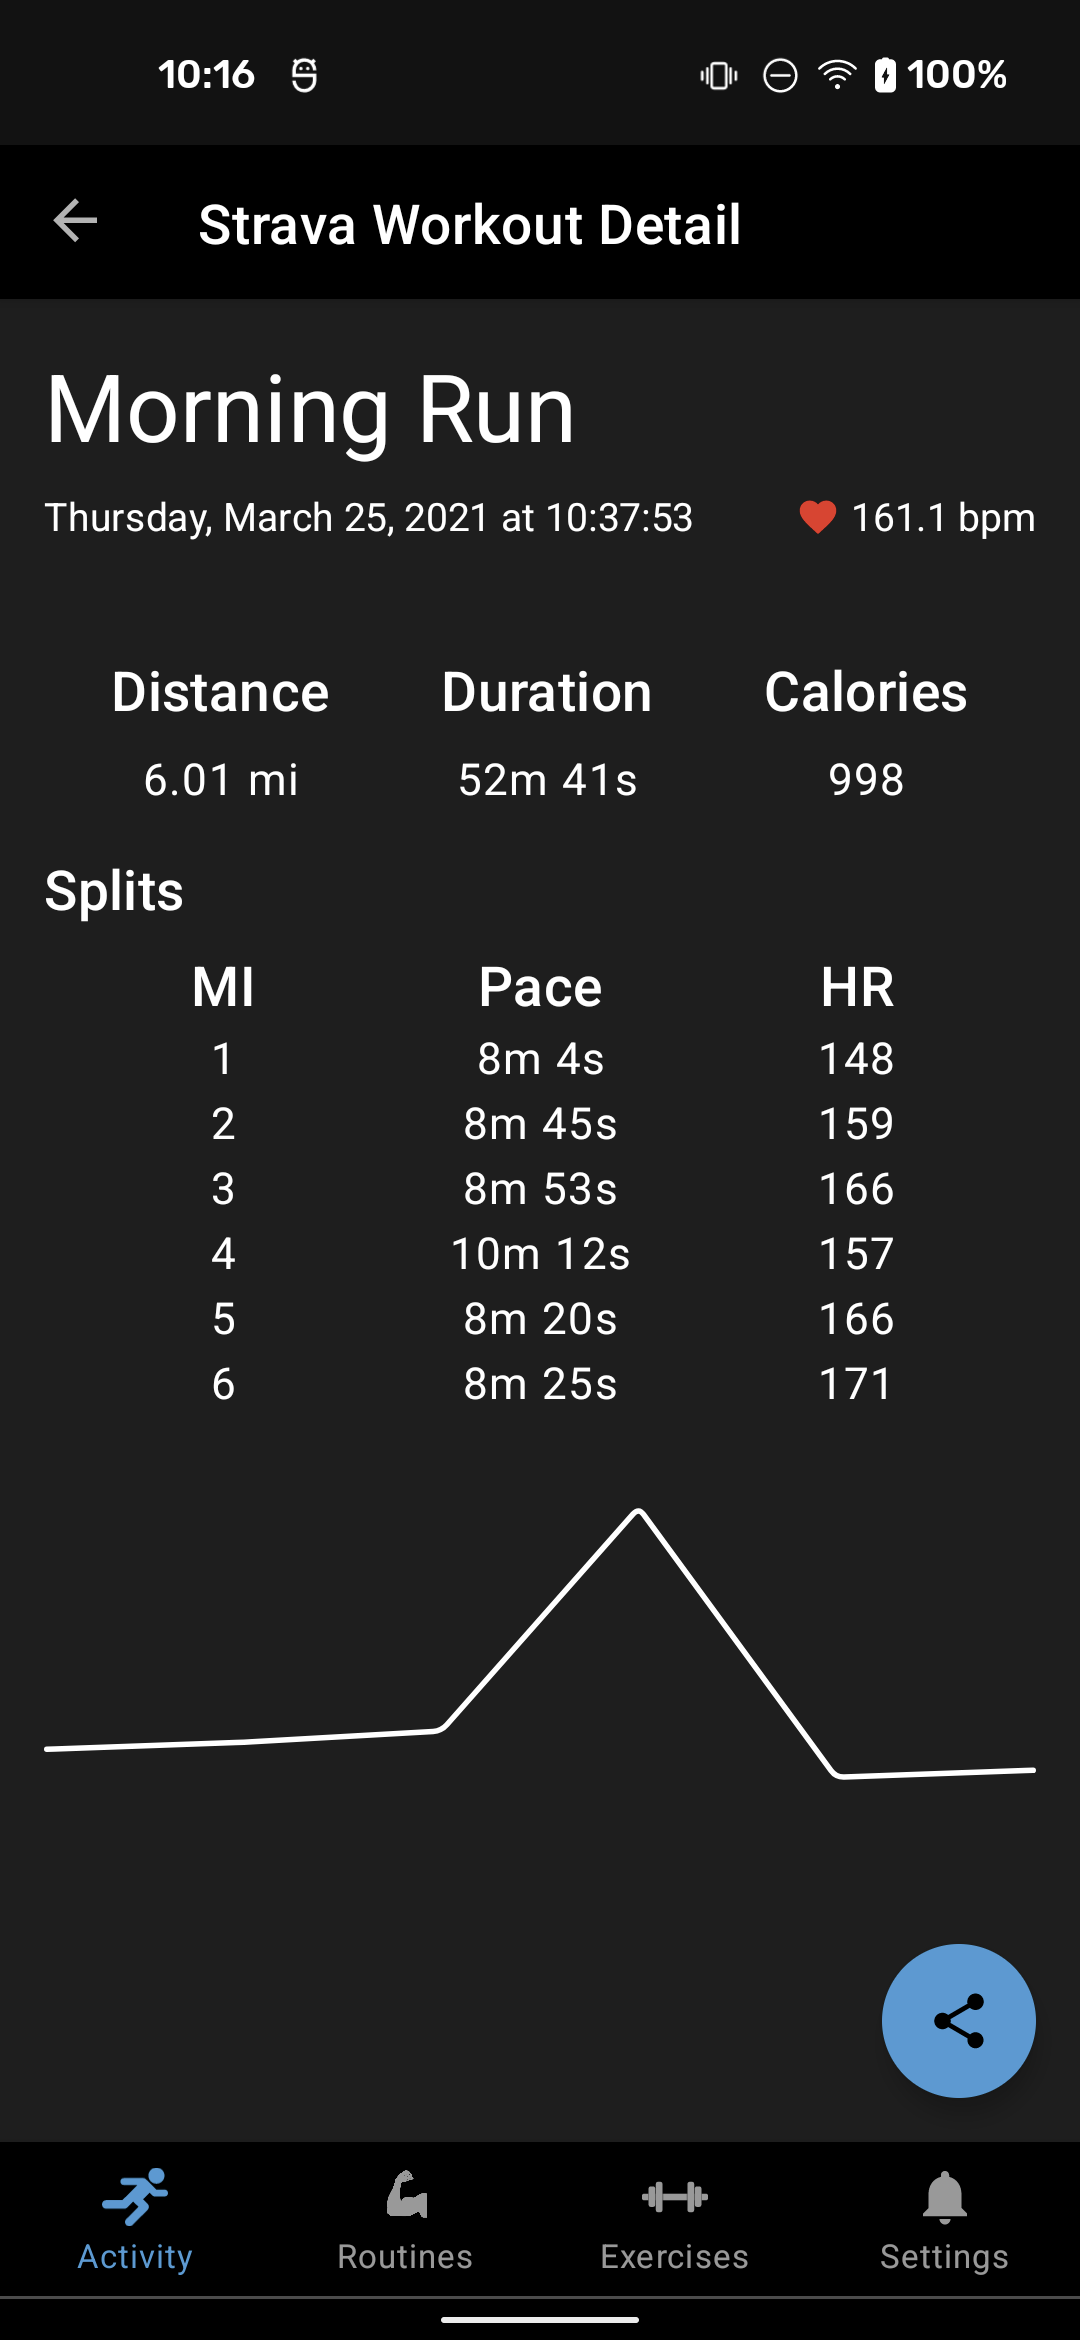
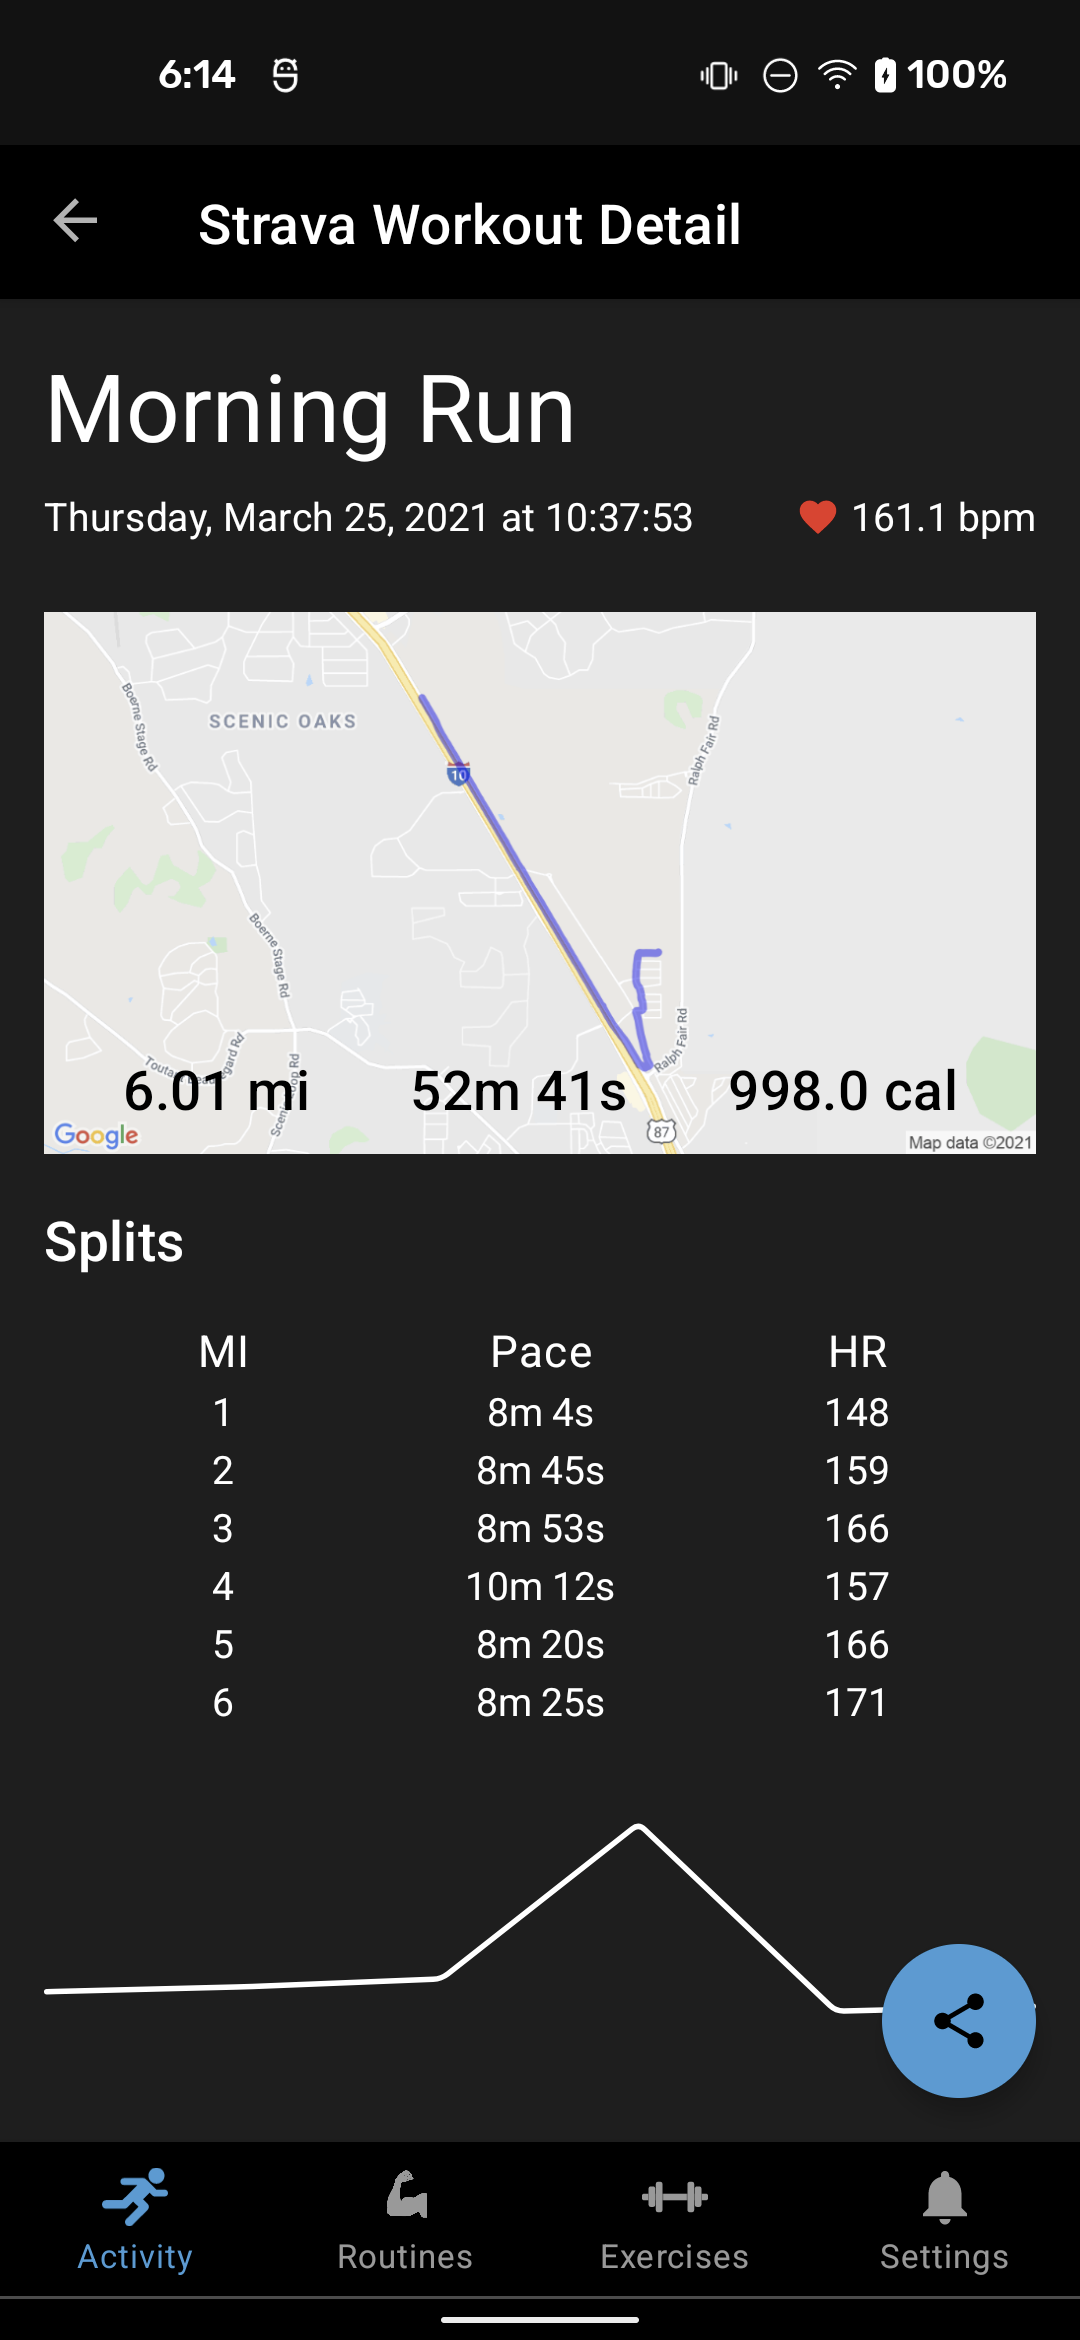
added mapview to strava detail

diff --git a/app/src/main/java/com/mcwilliams/theninjamethod/ui/activity/stravadetail/StravaWorkoutDetailFragment.kt b/app/src/main/java/com/mcwilliams/theninjamethod/ui/activity/stravadetail/StravaWorkoutDetailFragment.kt
@@ -5,7 +5,10 @@ import android.view.*
 import android.widget.ImageView
 import android.widget.LinearLayout
 import android.widget.ProgressBar
+import androidx.compose.foundation.background
 import androidx.compose.foundation.layout.*
+import androidx.compose.foundation.rememberScrollState
+import androidx.compose.foundation.verticalScroll
 import androidx.compose.material.*
 import androidx.compose.material.icons.Icons
 import androidx.compose.material.icons.filled.Share
@@ -14,6 +17,7 @@ import androidx.compose.runtime.livedata.observeAsState
 import androidx.compose.ui.Alignment
 import androidx.compose.ui.Modifier
 import androidx.compose.ui.graphics.Color
+import androidx.compose.ui.layout.ContentScale
 import androidx.compose.ui.platform.ComposeView
 import androidx.compose.ui.res.painterResource
 import androidx.compose.ui.unit.dp
@@ -26,9 +30,11 @@ import androidx.lifecycle.Observer
 import androidx.navigation.NavController
 import androidx.navigation.Navigation
 import androidx.navigation.fragment.findNavController
+import com.google.accompanist.coil.CoilImage
 import com.google.android.material.composethemeadapter.MdcTheme
 import com.google.android.material.textview.MaterialTextView
 import com.mcwilliams.data.workoutdb.SimpleWorkout
+import com.mcwilliams.theninjamethod.BuildConfig
 import com.mcwilliams.theninjamethod.R
 import com.mcwilliams.theninjamethod.strava.model.activitydetail.StravaActivityDetail
 import com.mcwilliams.theninjamethod.theme.TheNinjaMethodTheme
@@ -64,10 +70,10 @@ class StravaWorkoutDetailFragment : Fragment() {
             }
         }
     }
+}
 
-//    fun getMapUrl(polyline: String): String {
-//        return "https://maps.googleapis.com/maps/api/staticmap?size=700x350&scale=2&maptype=roadmap&path=enc:${polyline}&key=${BuildConfig.MAPS_API_KEY}"
-//    }
+fun getMapUrl(polyline: String): String {
+    return "https://maps.googleapis.com/maps/api/staticmap?size=700x350&scale=2&maptype=roadmap&path=enc:${polyline}&key=AIzaSyBWhwSFZ1aFOyxGN057wR_4wMA3QMyLT9I"
 }
 
 @Composable
@@ -89,13 +95,14 @@ fun StravaDetailContent(
             )
         }
     } else {
+        val scrollState = rememberScrollState()
         detailActivity?.let { stravaDetailActivity ->
             Box() {
                 Column(
                     Modifier
                         .fillMaxSize()
-                        .padding(horizontal = 16.dp)
-                        .padding(top = 16.dp)
+                        .padding(horizontal = 16.dp, vertical = 16.dp)
+                        .verticalScroll(scrollState)
                 ) {
                     Text(
                         text = stravaDetailActivity.name,
@@ -107,7 +114,7 @@ fun StravaDetailContent(
                         horizontalArrangement = Arrangement.SpaceBetween,
                         modifier = Modifier
                             .fillMaxWidth()
-                            .padding(bottom = 32.dp)
+                            .padding(bottom = 16.dp)
                     ) {
                         Text(
                             text = stravaDetailActivity.formattedDate,
@@ -122,7 +129,9 @@ fun StravaDetailContent(
                                     painter = painterResource(id = R.drawable.ic_heart_icon),
                                     contentDescription = "",
                                     tint = Color.Red,
-                                    modifier = Modifier.size(20.dp).padding(end = 4.dp)
+                                    modifier = Modifier
+                                        .size(20.dp)
+                                        .padding(end = 4.dp)
                                 )
                                 Text(
                                     text = "${stravaDetailActivity.average_heartrate} bpm",
@@ -133,23 +142,96 @@ fun StravaDetailContent(
                             }
                         }
                     }
+//
+//                    Row(
+//                        horizontalArrangement = Arrangement.SpaceEvenly,
+//                        modifier = Modifier
+//                            .fillMaxWidth()
+//                            .padding(bottom = 16.dp)
+//                    ) {
+//                        StackedRunDetail(label = "Distance", value = stravaDetailActivity.miles)
+//                        StackedRunDetail(label = "Duration", value = stravaDetailActivity.duration)
+//                        StackedRunDetail(
+//                            label = "Calories",
+//                            value = "${stravaDetailActivity.calories.toInt()}"
+//                        )
+//                    }
 
-                    Row(
-                        horizontalArrangement = Arrangement.SpaceEvenly,
-                        modifier = Modifier.fillMaxWidth()
+                    Box(
+                        modifier = Modifier
+                            .fillMaxWidth()
+                            .wrapContentHeight()
                     ) {
-                        StackedRunDetail(label = "Distance", value = stravaDetailActivity.miles)
-                        StackedRunDetail(label = "Duration", value = stravaDetailActivity.duration)
-                        StackedRunDetail(
-                            label = "Calories",
-                            value = "${stravaDetailActivity.calories.toInt()}"
-                        )
+                        stravaDetailActivity.map?.let {
+                            CoilImage(
+                                data = getMapUrl(it.polyline),
+                                contentDescription = "",
+                                contentScale = ContentScale.FillWidth,
+                                modifier = Modifier
+                                    .fillMaxWidth()
+                                    .height(200.dp),
+                                loading = {
+
+                                }
+                            )
+                        }
+
+                        Row(
+                            verticalAlignment = Alignment.Bottom,
+                            horizontalArrangement = Arrangement.SpaceEvenly,
+                            modifier = Modifier
+                                .fillMaxWidth()
+                                .height(200.dp)
+                                .padding(bottom = 4.dp)
+                        ) {
+                            Column(
+                                modifier = Modifier
+                                    .wrapContentSize()
+                                    .padding(horizontal = 8.dp),
+                                horizontalAlignment = Alignment.CenterHorizontally
+                            ) {
+                                Text(
+                                    text = "${stravaDetailActivity.miles}",
+                                    style = MaterialTheme.typography.h6,
+                                    modifier = Modifier.padding(bottom = 8.dp),
+                                    color = Color.Black
+                                )
+                            }
+                            Column(
+                                modifier = Modifier
+                                    .wrapContentSize()
+                                    .padding(horizontal = 8.dp),
+                                horizontalAlignment = Alignment.CenterHorizontally
+                            ) {
+                                Text(
+                                    text = "${stravaDetailActivity.duration}",
+                                    style = MaterialTheme.typography.h6,
+                                    modifier = Modifier.padding(bottom = 8.dp),
+                                    color = Color.Black
+                                )
+                            }
+                            Column(
+                                modifier = Modifier
+                                    .wrapContentSize()
+                                    .padding(horizontal = 8.dp),
+                                horizontalAlignment = Alignment.CenterHorizontally
+                            ) {
+                                Text(
+                                    text = "${stravaDetailActivity.calories} cal",
+                                    style = MaterialTheme.typography.h6,
+                                    modifier = Modifier.padding(bottom = 8.dp),
+                                    color = Color.Black
+                                )
+                            }
+                        }
                     }
+
+
 
                     Text(
                         text = "Splits",
                         style = MaterialTheme.typography.h6,
-                        modifier = Modifier.padding(vertical = 8.dp),
+                        modifier = Modifier.padding(vertical = 16.dp),
                         color = Color.White
                     )
 
@@ -164,17 +246,17 @@ fun StravaDetailContent(
                             RunDetail(
                                 label = "MI",
                                 width = 50.dp,
-                                textStyle = MaterialTheme.typography.h6
+                                textStyle = MaterialTheme.typography.body1
                             )
                             RunDetail(
                                 label = "Pace",
                                 width = 100.dp,
-                                textStyle = MaterialTheme.typography.h6
+                                textStyle = MaterialTheme.typography.body1
                             )
                             RunDetail(
                                 label = "HR",
                                 width = 50.dp,
-                                textStyle = MaterialTheme.typography.h6
+                                textStyle = MaterialTheme.typography.body1
                             )
                         }
 
@@ -190,17 +272,17 @@ fun StravaDetailContent(
                                     RunDetail(
                                         label = "${split.split}",
                                         width = 50.dp,
-                                        textStyle = MaterialTheme.typography.body1
+                                        textStyle = MaterialTheme.typography.body2
                                     )
                                     RunDetail(
                                         label = "${split.moving_time / 60}m ${split.moving_time % 60}s",
                                         width = 100.dp,
-                                        textStyle = MaterialTheme.typography.body1
+                                        textStyle = MaterialTheme.typography.body2
                                     )
                                     RunDetail(
                                         label = "${split.average_heartrate.roundToInt()}",
                                         width = 50.dp,
-                                        textStyle = MaterialTheme.typography.body1
+                                        textStyle = MaterialTheme.typography.body2
                                     )
                                 }
                             }
@@ -228,7 +310,7 @@ fun StravaDetailContent(
                                 sparkview
                             }, modifier = Modifier
                                 .fillMaxWidth()
-                                .requiredHeight(100.dp)
+                                .requiredHeight(70.dp)
                         )
 
                         if (splitText.isNotEmpty()) {

diff --git a/app/src/main/java/com/mcwilliams/theninjamethod/ui/activity/stravadetail/ShareStravaWorkoutFragment.kt b/app/src/main/java/com/mcwilliams/theninjamethod/ui/activity/stravadetail/ShareStravaWorkoutFragment.kt
@@ -298,19 +298,22 @@ fun ImageToggles(viewModel: ShareStravaWorkoutViewModel) {
 }
 
 @Composable
-fun StackedRunDetail(label: String, value: String) {
+fun StackedRunDetail(label: String?, value: String) {
     Column(
         modifier = Modifier
             .wrapContentSize()
             .padding(horizontal = 16.dp),
         horizontalAlignment = Alignment.CenterHorizontally
     ) {
-        Text(
-            text = label,
-            style = MaterialTheme.typography.h6,
-            modifier = Modifier.padding(bottom = 8.dp),
-            color = Color.White
-        )
+        label?.let {
+            Text(
+                text = it,
+                style = MaterialTheme.typography.h6,
+                modifier = Modifier.padding(bottom = 8.dp),
+                color = Color.White
+            )
+        }
+
         Text(
             text = value,
             style = MaterialTheme.typography.body1,
